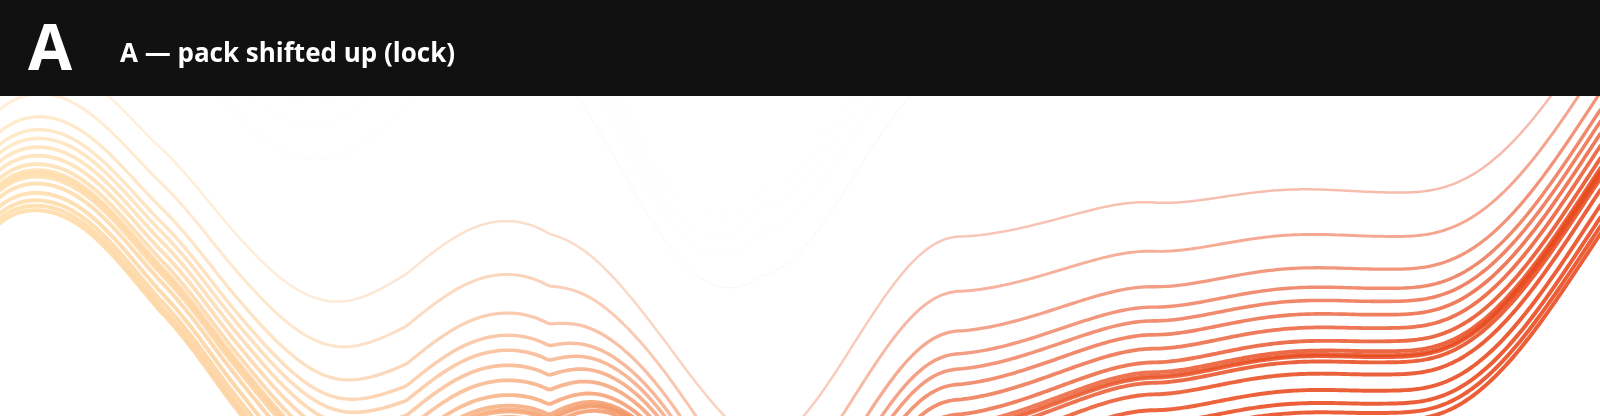
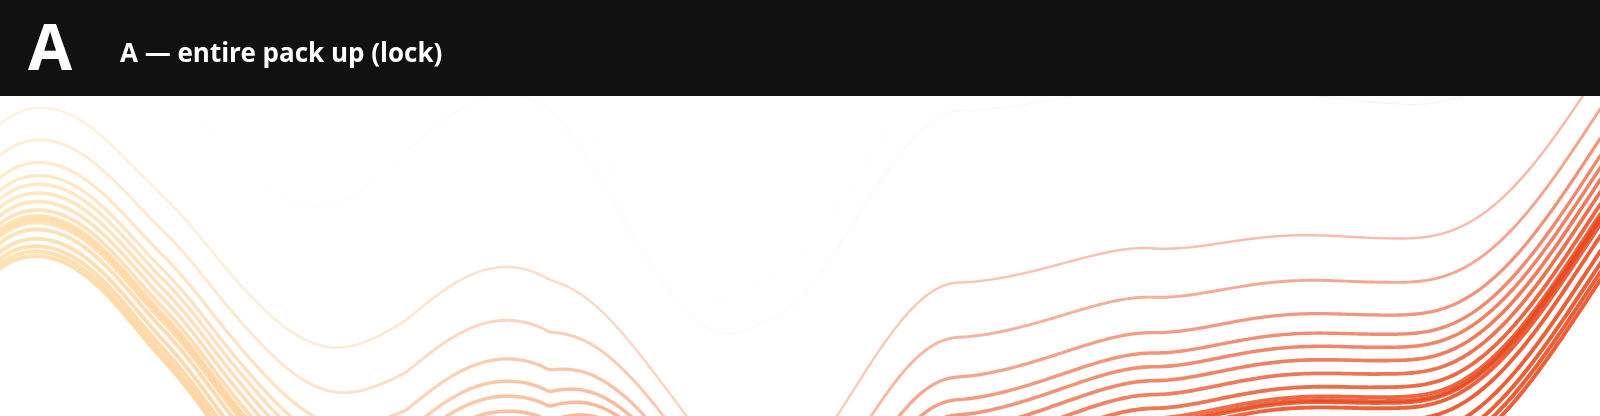
fix(lab): actually translate full Twizzler pack upward (#CF-16)
Use geometric mean of all points (not visible-only) so centerY moves
the entire ribbon up the frame as intended.

diff --git a/apps/lab/src/twizzler.ts b/apps/lab/src/twizzler.ts
@@ -702,15 +702,13 @@ export function buildTwizzlerLines(
     });
   }
 
-  // Align visible-ink average to settings.centerY (lower = entire pack higher on screen).
+  // Move the ENTIRE pack so geometric average lands at centerY (lower = higher on screen).
   let ySum = 0;
   let yCount = 0;
   for (const line of lines) {
     for (const point of line.points) {
-      if (point.y >= 0 && point.y <= pixelHeight) {
-        ySum += point.y;
-        yCount += 1;
-      }
+      ySum += point.y;
+      yCount += 1;
     }
   }
   if (yCount > 0) {
